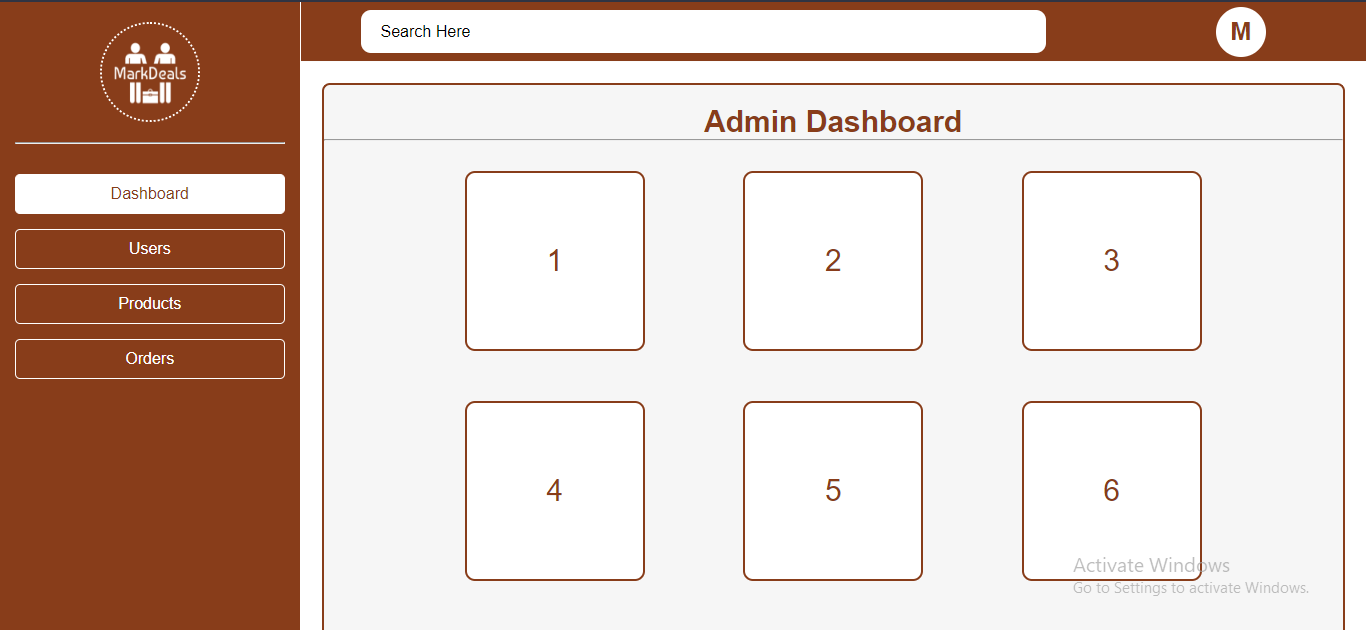
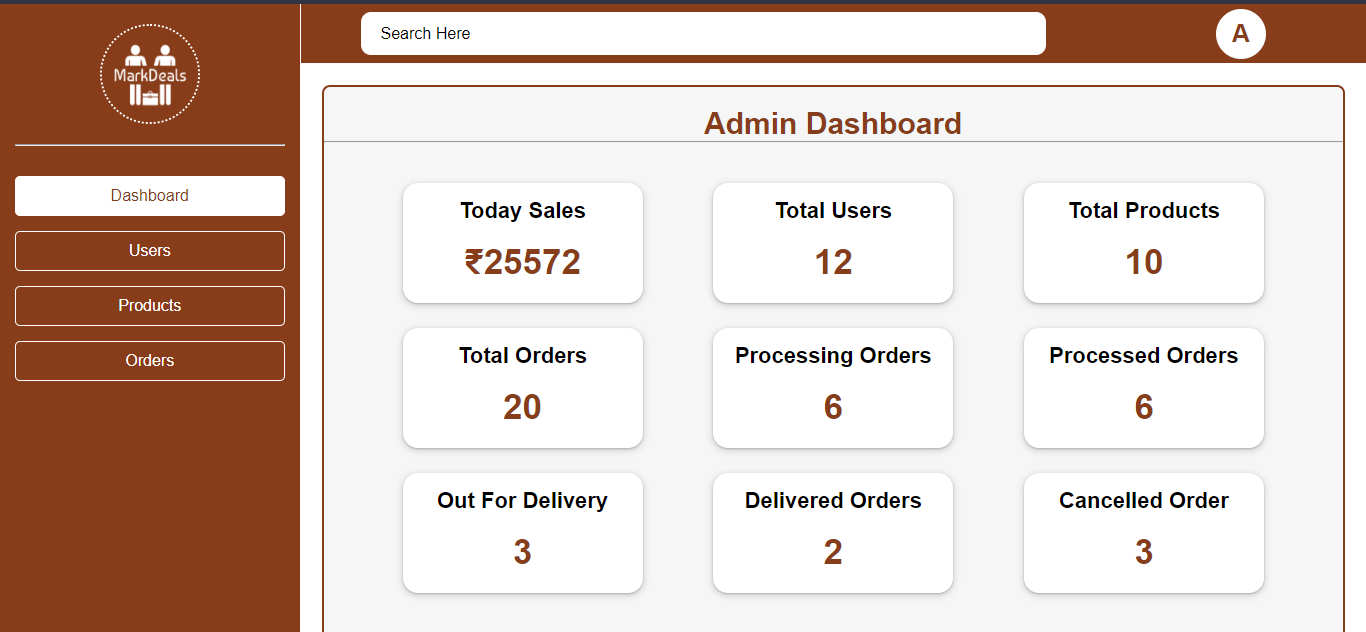
console.log removed from all js filesand modified some in orders service, serviceimpl, and controller

diff --git a/FrontEnd/admindashboard.html b/FrontEnd/admindashboard.html
@@ -23,7 +23,7 @@
         <div id="mainboard">
             <div id="navbar">
                 <div id="searchbar">
-                    <input type="text" id="search" placeholder="Search Here" oninput="searching()">
+                    <input type="text" id="search" placeholder="Search Here">
                 </div>
                 <div id="profile">
                     <div class="dropdown_main_">
@@ -32,7 +32,7 @@
                           <div class="caret_"></div>
                         </div>
                         <ul class="menu_2_">
-                          <li onclick="profile()" >Profile</li>
+                          <li>Profile</li>
                           <li id="logout" onclick="logout()">Logout</li>
                         </ul>
                       </div>
@@ -50,12 +50,6 @@
                                 <p class="upperbot" id="todaySales"></p>
                             </div>
                         </div>
-                        <!-- <div>
-                            <div class="upper">
-                                <p>Weekly Sales</p>
-                                <p class="upperbot">Pending</p>
-                            </div>
-                        </div> -->
                         <div>
                             <div class="upper">
                                 <p>Total Users</p>
@@ -101,7 +95,7 @@
                         <div>
                             <div class="upper">
                                 <p>Cancelled Order</p>
-                                <p class="upperbot">0</p>
+                                <p class="upperbot" id="cancelledorder"></p>
                             </div>
                         </div>
                     </div>

diff --git a/FrontEnd/Script/payment.js b/FrontEnd/Script/payment.js
@@ -45,7 +45,6 @@ let barcode = async () =>{
             },
           });
           let data2 = await res2.json();
-          console.log(data2);
           
 
           let res3 = await fetch(`https://markdeals.up.railway.app/deleteproduct/${userDataFromLs.cart.cartId}`, {
@@ -92,7 +91,6 @@ let cod = async ()=>{
             },
           });
           let data2 = await res2.json();
-          console.log(data2);
           
 
           let res3 = await fetch(`https://markdeals.up.railway.app/deleteproduct/${userDataFromLs.cart.cartId}`, {
@@ -140,7 +138,6 @@ const cartdetails = async ()=>{
             },
           });
           let data2 = await res2.json();
-          console.log(data2);
           
 
           let res3 = await fetch(`https://markdeals.up.railway.app/deleteproduct/${userDataFromLs.cart.cartId}`, {
@@ -189,8 +186,6 @@ const cartdetails = async ()=>{
             },
           });
           let data2 = await res2.json();
-          console.log(data2);
-          
 
           let res3 = await fetch(`https://markdeals.up.railway.app/deleteproduct/${userDataFromLs.cart.cartId}`, {
             method: "DELETE",

diff --git a/FrontEnd/Script/orderhistory.js b/FrontEnd/Script/orderhistory.js
@@ -65,7 +65,6 @@ let appendOrder = (data)=>{
 
 let cancelOrderFunction = async (el)=>{
   let obj = {};
-  console.log(el)
   let res = await fetch(`https://markdeals.up.railway.app/orders/${el.orderId}`, {
     method: "PATCH",
     body: JSON.stringify(obj),
@@ -73,10 +72,9 @@ let cancelOrderFunction = async (el)=>{
       "Content-Type": "application/json",
     },
   });
-  let data = await res.json();
-  console.log(data)
-  if(data == "Order cancelled"){
+    let data = await res.json();
+    if(data.orderStatus == "Cancelled"){
     alert("Order Cancelled Successfully!");
     getOrders();
-  }
+    }
 }

diff --git a/FrontEnd/Script/admindashboard.js b/FrontEnd/Script/admindashboard.js
@@ -284,6 +284,14 @@ let totalProductsCount =async()=>{
 }
 totalProductsCount();
 
+let cancelledorder = document.getElementById("cancelledorder");
+let totalCancelledOrder = async()=>{
+  let res = await fetch("https://markdeals.up.railway.app/orders/totalcancelledorders");
+  let data = await res.json();
+  cancelledorder.append(data);
+}
+totalCancelledOrder();
+
 // ===================================Logout=============================
 let logout = ()=>{
   window.location.href = "./index.html";

diff --git a/FrontEnd/product.html b/FrontEnd/product.html
@@ -31,7 +31,7 @@
                       <div class="caret_"></div>
                     </div>
                     <ul class="menu_2_">
-                      <li onclick="profile()" >Profile</li>
+                      <li>Profile</li>
                       <li id="logout" onclick="logout()">Logout</li>
                     </ul>
                   </div>

diff --git a/FrontEnd/cart.html b/FrontEnd/cart.html
@@ -30,7 +30,7 @@
                   <div class="caret_"></div>
                 </div>
                 <ul class="menu_2_">
-                  <li onclick="profile()" >Profile</li>
+                  <li>Profile</li>
                   <li id="logout" onclick="logout()">Logout</li>
                 </ul>
               </div>

diff --git a/FrontEnd/orderhistory.html b/FrontEnd/orderhistory.html
@@ -32,7 +32,7 @@
                   <div class="caret_"></div>
                 </div>
                 <ul class="menu_2_">
-                  <li onclick="profile()" >Profile</li>
+                  <li>Profile</li>
                   <li id="logout" onclick="logout()">Logout</li>
                 </ul>
               </div>

diff --git a/MarkDeals/src/main/java/com/project/controller/OrderController.java b/MarkDeals/src/main/java/com/project/controller/OrderController.java
@@ -99,9 +99,9 @@ public class OrderController {
 	
 	
 	@PatchMapping("/orders/{oId}")
-	public ResponseEntity<String> cancelledOrder(@PathVariable("oId") Integer orderId){
-		String cancelledOrder = orderService.cancelOrder(orderId);
-		return new ResponseEntity<String>(cancelledOrder,HttpStatus.OK);
+	public ResponseEntity<Orders> cancelledOrder(@PathVariable("oId") Integer orderId){
+		Orders cancelledOrder = orderService.cancelOrder(orderId);
+		return new ResponseEntity<Orders>(cancelledOrder,HttpStatus.OK);
 	}
 	
 	

diff --git a/MarkDeals/src/main/java/com/project/service/OrderServiceImpl.java b/MarkDeals/src/main/java/com/project/service/OrderServiceImpl.java
@@ -157,12 +157,12 @@ public class OrderServiceImpl implements OrderService{
 	}
 
 	@Override
-	public String cancelOrder(Integer orderId) {
+	public Orders cancelOrder(Integer orderId) {
 		Optional<Orders> optOrder = orderRepository.findById(orderId);
 		Orders existingOrder = optOrder.get();
 		existingOrder.setOrderstatus("Cancelled");
 		orderRepository.save(existingOrder);
-		return "Order cancelled";
+		return existingOrder;
 	}
 
 	@Override

diff --git a/MarkDeals/src/main/java/com/project/service/OrderService.java b/MarkDeals/src/main/java/com/project/service/OrderService.java
@@ -35,6 +35,6 @@ public interface OrderService {
 	
 	public Integer totalCancelledOrder();
 	
-	public String cancelOrder(Integer orderId);
+	public Orders cancelOrder(Integer orderId);
 	
 }
